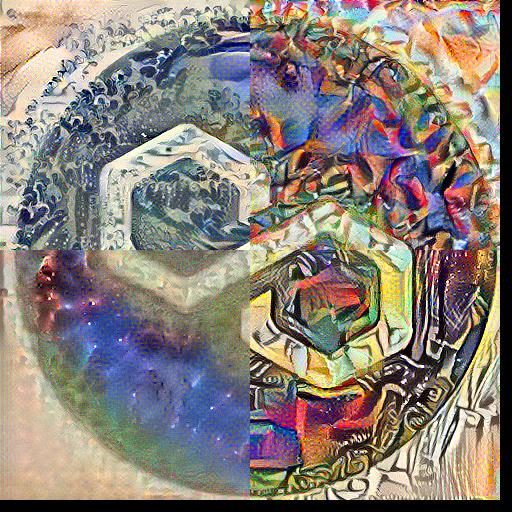
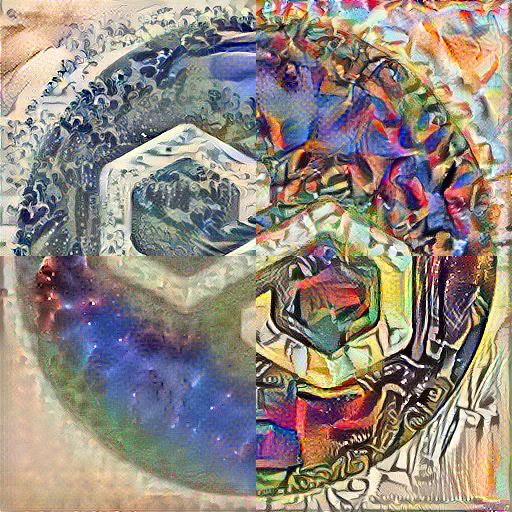
images fix

Changed region(s): [[0.0, 0.0, 1.0, 1.0]]

diff --git a/artwork/index.js b/artwork/index.js
@@ -32,10 +32,10 @@ Promise.all(allImages).then(async (images) => {
 
           const canvas = createCanvas(512, 512);
           const ctx = canvas.getContext('2d');
-          ctx.drawImage(images[i0], 0, 0, 250, 250, 0, 0, 250, 250);
-          ctx.drawImage(images[i1], 0, 250, 250, 250, 0, 250, 250, 250);
-          ctx.drawImage(images[i2], 250, 0, 250, 250, 250, 0, 250, 250);
-          ctx.drawImage(images[i3], 250, 250, 250, 250, 250, 250, 250, 250);
+          ctx.drawImage(images[i0], 0, 0, 256, 256, 0, 0, 256, 256);
+          ctx.drawImage(images[i1], 0, 256, 256, 256, 0, 256, 256, 256);
+          ctx.drawImage(images[i2], 256, 0, 256, 256, 256, 0, 256, 256);
+          ctx.drawImage(images[i3], 256, 256, 256, 256, 256, 256, 256, 256);
 
 
           const fs = require('fs')
@@ -48,7 +48,7 @@ Promise.all(allImages).then(async (images) => {
               resolve();
             })
           });
-
+          
           // Disable 2x2 chromaSubsampling for deeper colors and use a higher quality
           // const stream = canvas.createJPEGStream({
           //   quality: 0.95,
